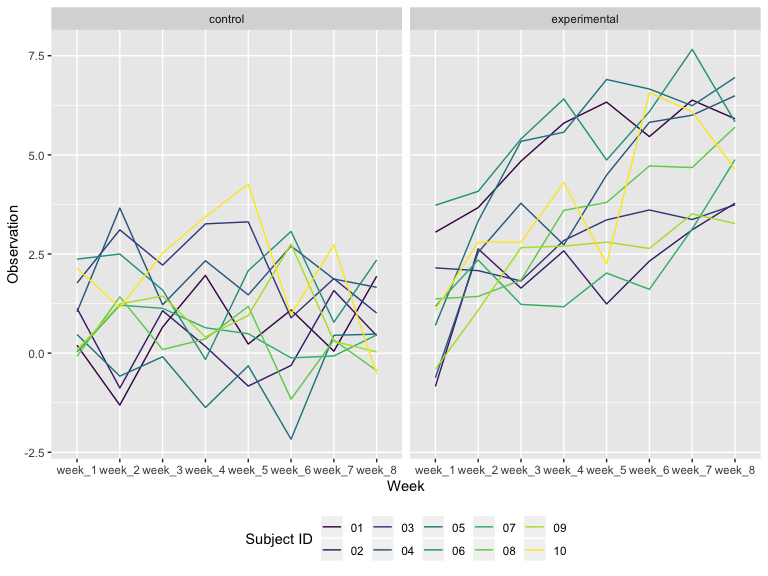
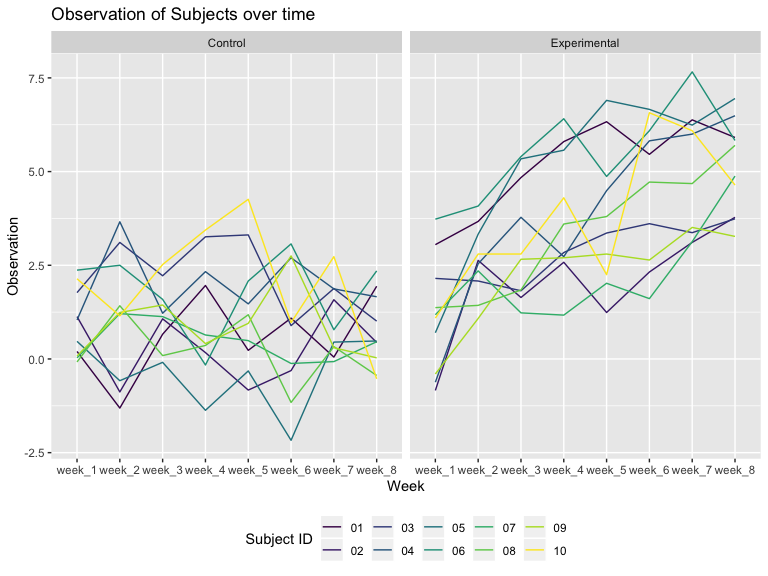
Simulation!

diff --git a/p8105_hw5_ec3342.md b/p8105_hw5_ec3342.md
@@ -35,21 +35,23 @@ as_tibble() #Applying the function to the columns of iris_with_missing using a m
 # Question 2
 
 \#Creating a tidy dataframe containing data from all participants,
-including the subject ID, arm, and observations over time:
+including the subject ID, arm, and observations over time: \#Starting
+with a dataframe containing all file names using the list.files
+function.
 
 ``` r
 file_name = list.files("./data")
 
 read_csv_files = 
   function(file_name) {
-    subject_data = read_csv(
+    study_data = read_csv(
       file = str_c("./data/", file_name)
       ) %>%
       mutate(
         file = file_name
       )
     }
-subject_data = map_df(
+study_data = map_df(
   file_name, read_csv_files
 ) %>%
 pivot_longer(
@@ -60,7 +62,7 @@ pivot_longer(
     file, into = c("group","subject",sep = "-")
     ) %>%
   mutate(
-    group = recode(group,"con" = "control","exp" = "experimental")
+    group = recode(group,"con" = "Control","exp" = "Experimental")
     ) %>%
   select(group,subject,week,measurement)
 ```
@@ -287,11 +289,12 @@ pivot_longer(
     ## )
 
 ``` r
-subject_data %>%
+study_data %>%
   ggplot(aes(x = week, y = measurement, group = subject, color = subject)) + 
   geom_line() +
   facet_grid(~group) + 
   labs(
+    title = "Observation of Subjects over time",
     x = "Week",
     y = "Observation"
   ) + 
@@ -304,3 +307,23 @@ subject_data %>%
 ```
 
 <img src="p8105_hw5_ec3342_files/figure-gfm/unnamed-chunk-4-1.png" width="90%" />
+
+# Question 3
+
+``` r
+set.seed(1)
+sim_regression = function(n = 30, beta0 = 2, beta1 = 0) {
+  
+  sim_data = tibble(
+    x = rnorm(n, mean = 0, sd = 1),
+    y = beta0 + beta1 * x + rnorm(n, 0, sqrt(50))
+  )
+  
+  ls_fit = lm(y ~ x, data = sim_data)
+  
+  tibble(
+    beta1_hat = as.numeric((ls_fit)[2,2]),
+    p_value = as.numeric((ls_fit)[2,5])
+  )
+}
+```
